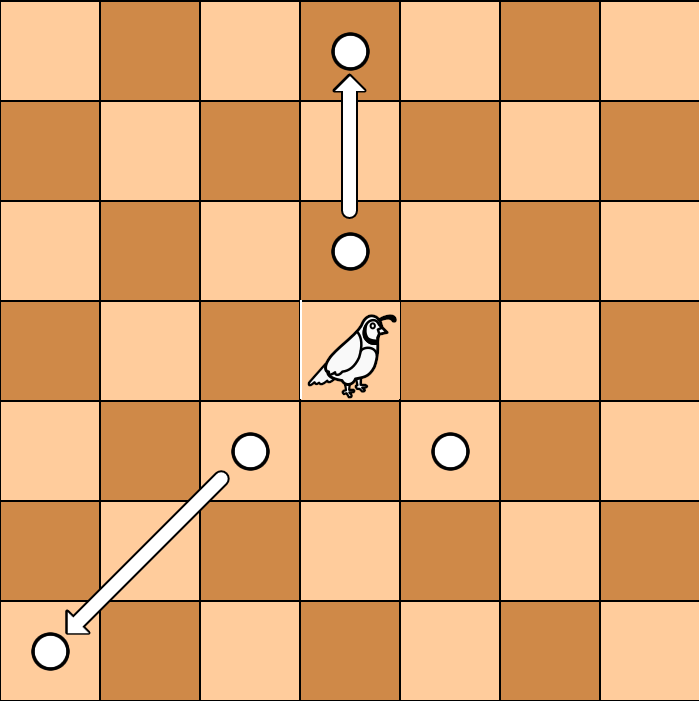
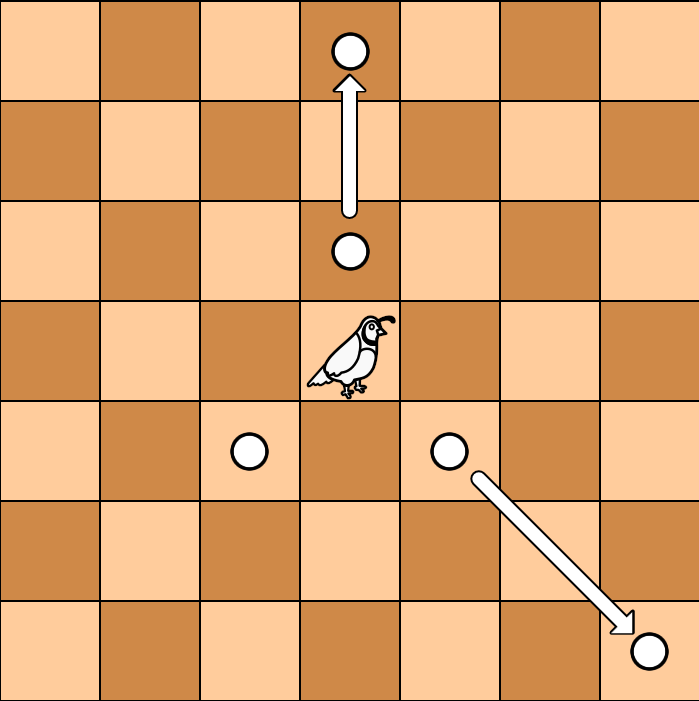
Shogis : improve rules

diff --git a/src/games/chessbase/res/rules/shogi/chu-shogi-rules.html b/src/games/chessbase/res/rules/shogi/chu-shogi-rules.html
@@ -48,7 +48,7 @@
 <p><img style="max-width:100%;"  src="{GAME}/res/rules/shogi/horse.png"/><b>Horse</b> : The Knight has the two forward-most moves of the Chess knight.</p>
 <p><img class='piece-graph' src="{GAME}/res/rules/shogi/shogi-horse.png"/></p>
 <p><img style="max-width:100%;"  src="{GAME}/res/rules/shogi/lance.png"/><b>Lance</b> : The Lance moves as a Rook but only forward in the same file, never sideways or backward.</p>
-<p><img class='piece-graph' src="{GAME}/res/rules/shogi/shogi-lance.png"/></p>
+<p><img class='piece-graph' src="{GAME}/res/rules/shogi/graphs/shogi-lance.png"/></p>
 
 <p><img class='piece-icon' src="{GAME}/res/fairy/icons/w-copper-general.png"/><b>Copper general</b></p>
 <p><img class='piece-graph' src="{GAME}/res/rules/shogi/graphs/copper.png"/></p>
@@ -95,10 +95,10 @@
 <p><img class='piece-graph' src="{GAME}/res/rules/graphs/phoenix.png"/></p>
 
 <p><img class='piece-icon' src="{GAME}/res/fairy/icons/w-antelope.png"/><b>Stag</b></p>
-<p><img class='piece-graph' src="{GAME}/res/rules/shogi/graphs/stag.png"/></p>
+<p><img class='piece-graph' src="{GAME}/res/rules/shogi/graphs/flying-stag.png"/></p>
 
 <p><img class='piece-icon' src="{GAME}/res/fairy/icons/w-prince.png"/><b>Prince</b></p>
-<p><img class='piece-graph' src="{GAME}/res/rules/graphs/prince.png"/></p>
+<p><img class='piece-graph' src="{GAME}/res/rules/shogi/graphs/shogi-prince.png"/></p>
 
 <p><img class='piece-icon' src="{GAME}/res/fairy/icons/w-queen.png"/><b>Queen</b></p>
 <p><img class='piece-graph' src="{GAME}/res/rules/graphs/queen.png"/></p>

diff --git a/src/games/chessbase/res/rules/shogi/shogi-rules_fr.html b/src/games/chessbase/res/rules/shogi/shogi-rules_fr.html
@@ -50,7 +50,7 @@
 <p><img style="max-width:100%;" src="{GAME}/res/rules/shogi/horse.png"/><b>Cheval</b> : Le cheval se déplace comme le cavalier mais uniquement vers l’avant.</p>
 <p><img class='piece-graph'  src="{GAME}/res/rules/shogi/shogi-horse.png"/></p>
 <p><img style="max-width:100%;" src="{GAME}/res/rules/shogi/lance.png"/><b>Lance</b> : La Lance se déplace comme une Tour mais seulement vers l'avant dans la même colonne, jamais latéralement ou vers l'arrière.</p>
-<p><img class='piece-graph'  src="{GAME}/res/rules/shogi/shogi-lance.png"/></p>
+<p><img class='piece-graph'  src="{GAME}/res/rules/shogi/graphs/shogi-lance.png"/></p>
 <h2>Promotion</h2>
 
 <ul>

diff --git a/src/games/chessbase/res/rules/shogi/shogi-rules.html b/src/games/chessbase/res/rules/shogi/shogi-rules.html
@@ -48,7 +48,7 @@
 <p><img style="max-width:100%;" src="{GAME}/res/rules/shogi/horse.png"/><b>Horse</b> : The Knight has the two forward-most moves of the Chess knight.</p>
 <p><img class='piece-graph'  src="{GAME}/res/rules/shogi/shogi-horse.png"/></p>
 <p><img style="max-width:100%;" src="{GAME}/res/rules/shogi/lance.png"/><b>Lance</b> : The Lance moves as a Rook but only forward in the same file, never sideways or backward.</p>
-<p><img class='piece-graph'  src="{GAME}/res/rules/shogi/shogi-lance.png"/></p>
+<p><img class='piece-graph'  src="{GAME}/res/rules/shogi/graphs/shogi-lance.png"/></p>
 <h2>Promotion</h2>
 
 <ul>

diff --git a/src/games/chessbase/res/rules/decimal/hectochess-rules.html b/src/games/chessbase/res/rules/decimal/hectochess-rules.html
@@ -125,6 +125,18 @@
 <img class='piece-graph' src='{GAME}/res/rules/graphs/rook.png'>
 </p>
 
+<h2>Pawn</h2>
+<p>
+<img style="max-width:100%;" src="{GAME}/res/fairy/icons/w-pawn.png"/>
+</p>
+<p class='piece-details'>Exactly as in usual Chess.</p>
+
+<div style='clear:both'></div>
+<p>
+<img class='piece-graph' src='{GAME}/res/rules/graphs/pawn.png'>
+</p>
+<p>Can move two squares only on their first move, and capture <i>en passant</i> only when the target pawn has just moved two squares.</p>
+
 </p>
 <h1>Promotions table</h1>
 <div id="promo">
